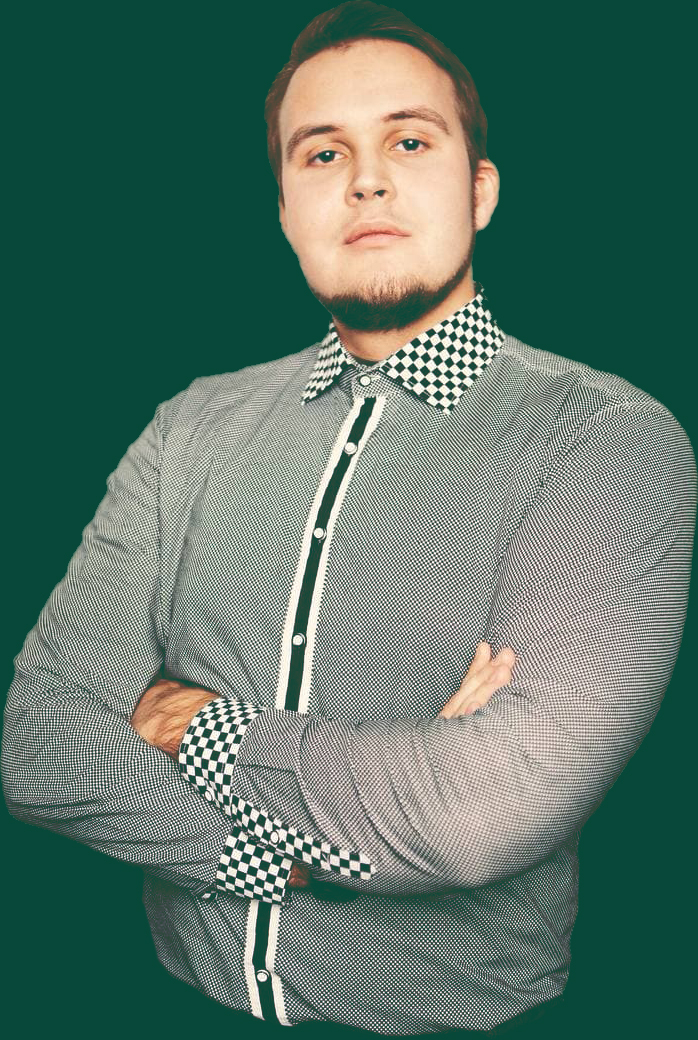
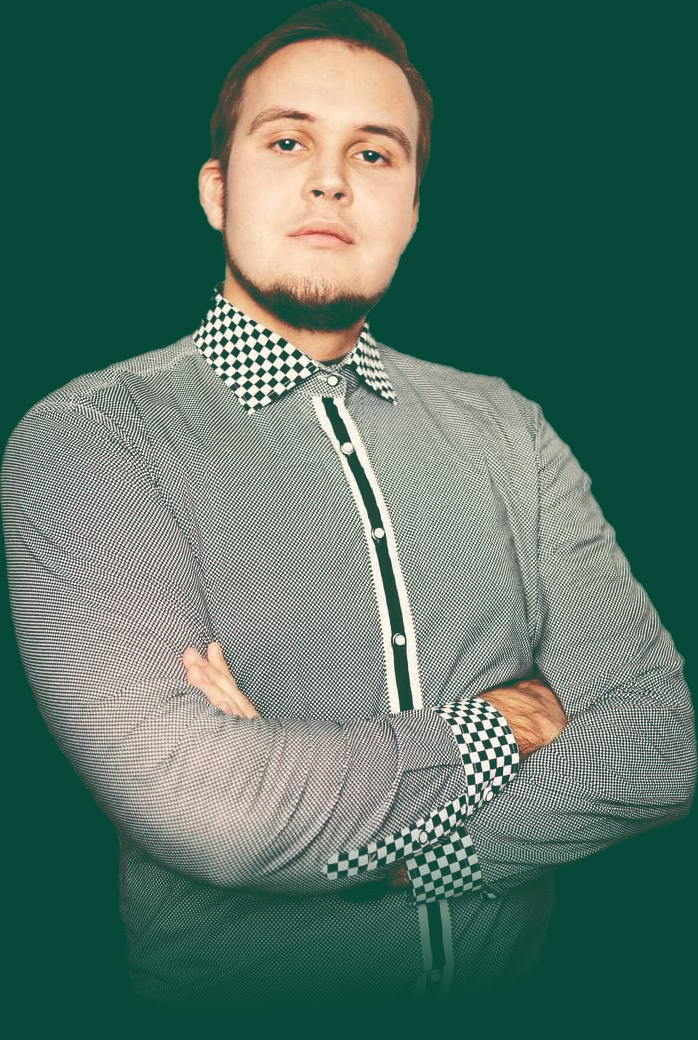
Changed photo

diff --git a/src/app/components/main/__resume/main__resume.component.scss b/src/app/components/main/__resume/main__resume.component.scss
@@ -33,8 +33,8 @@
 
   &__photo {
     grid-area: photo;
-    width: 100%;
-    height: 100%;
+    width: 70%;
+    max-height: 100%;
   }
 
   &__edu {
